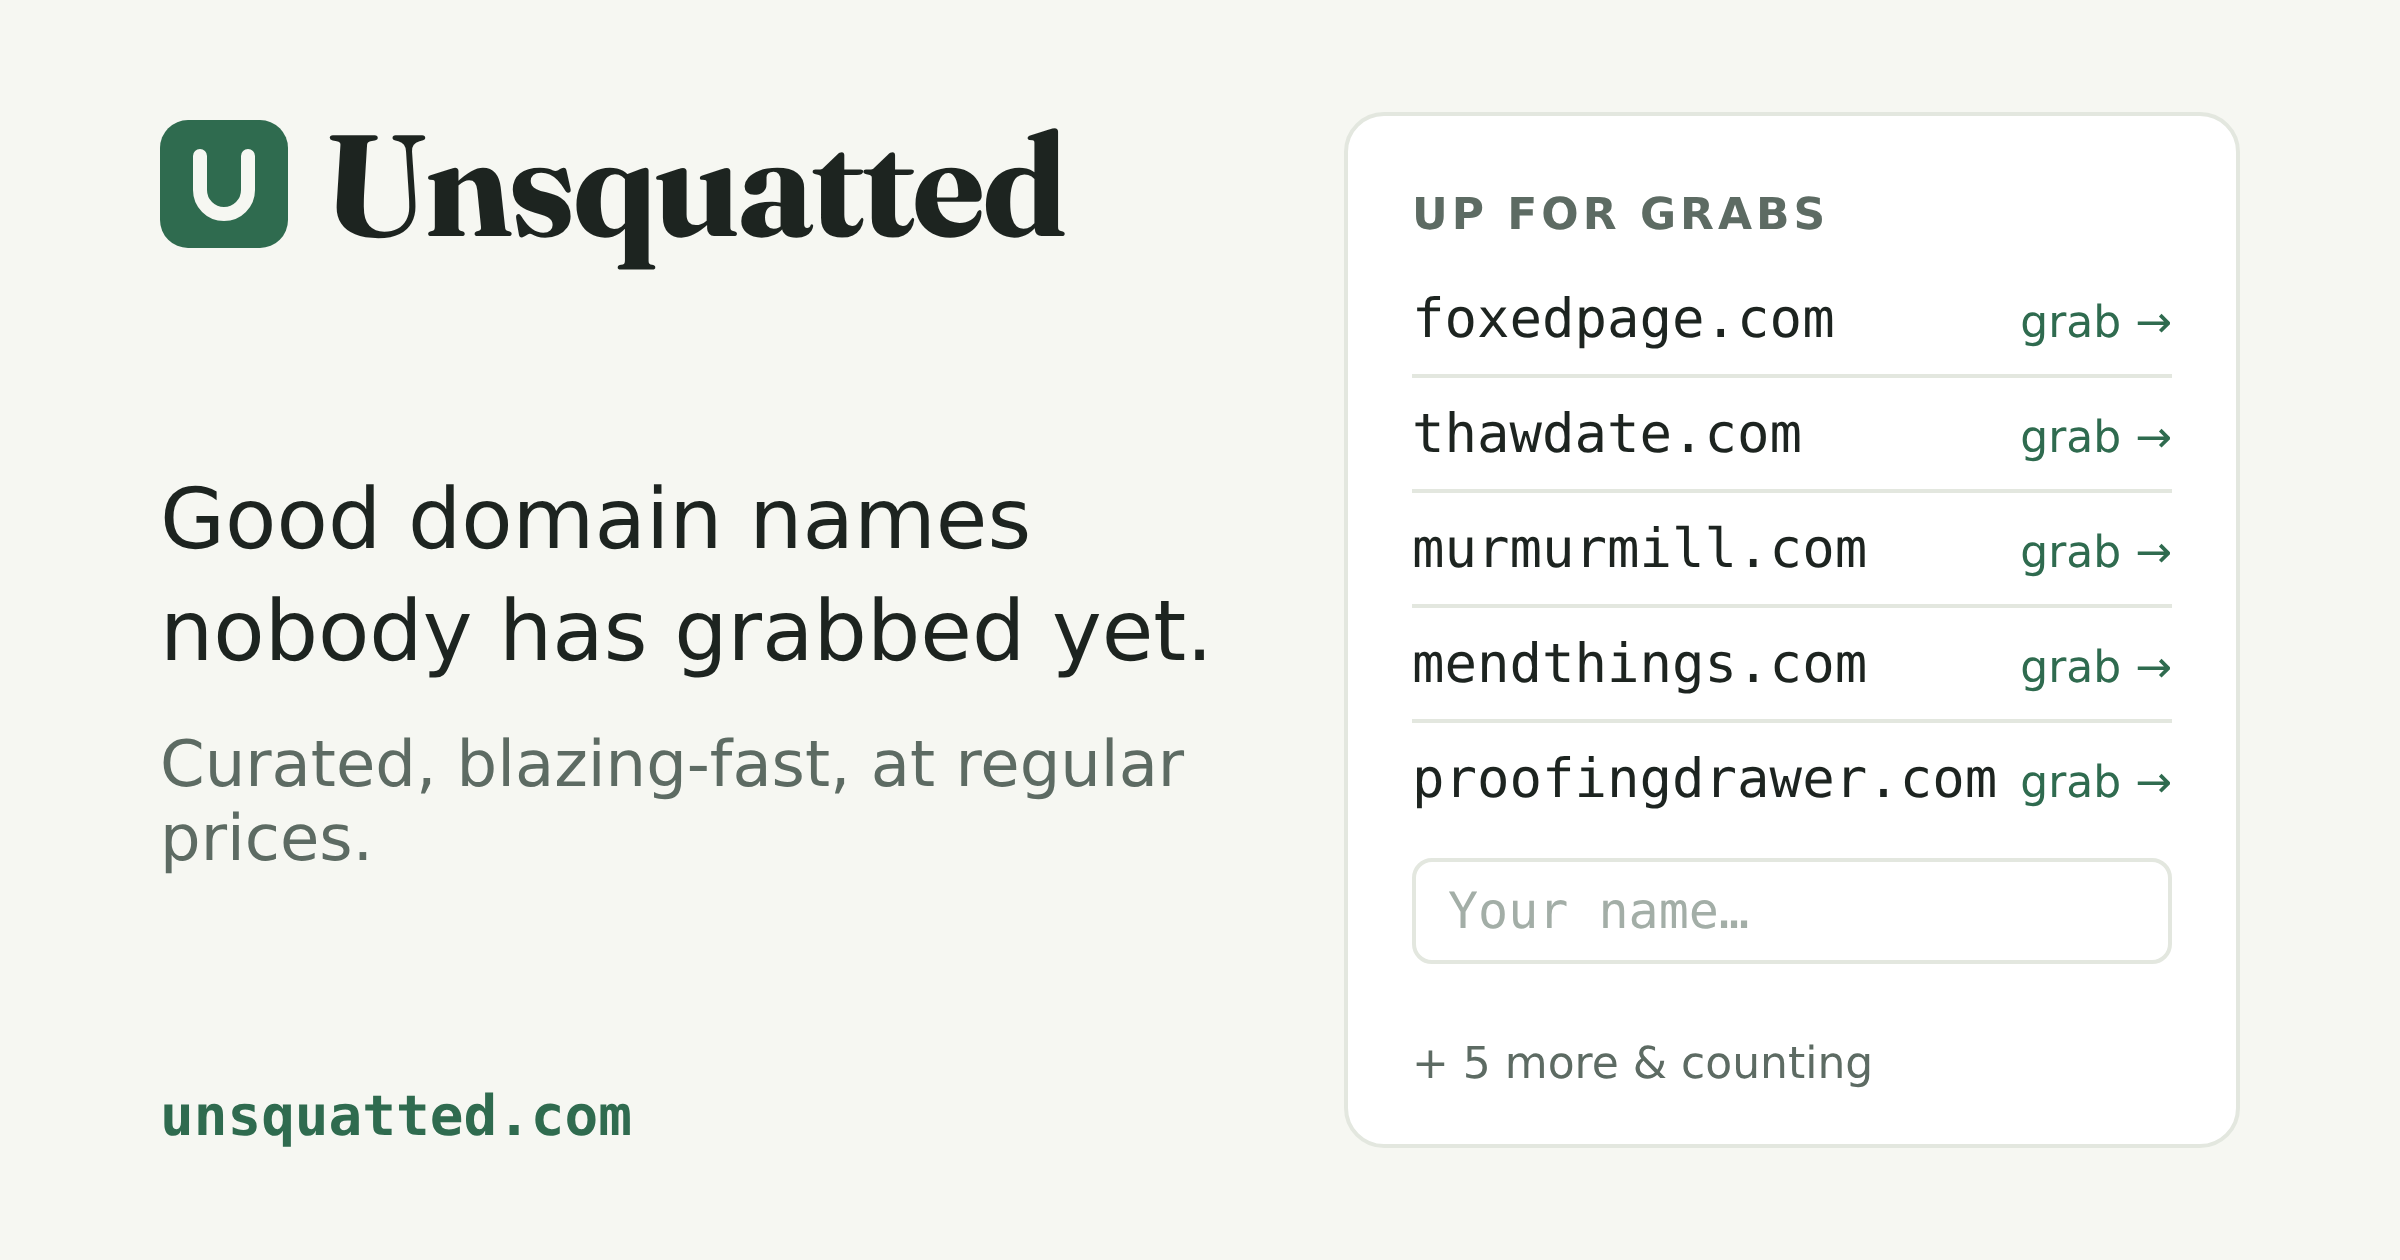
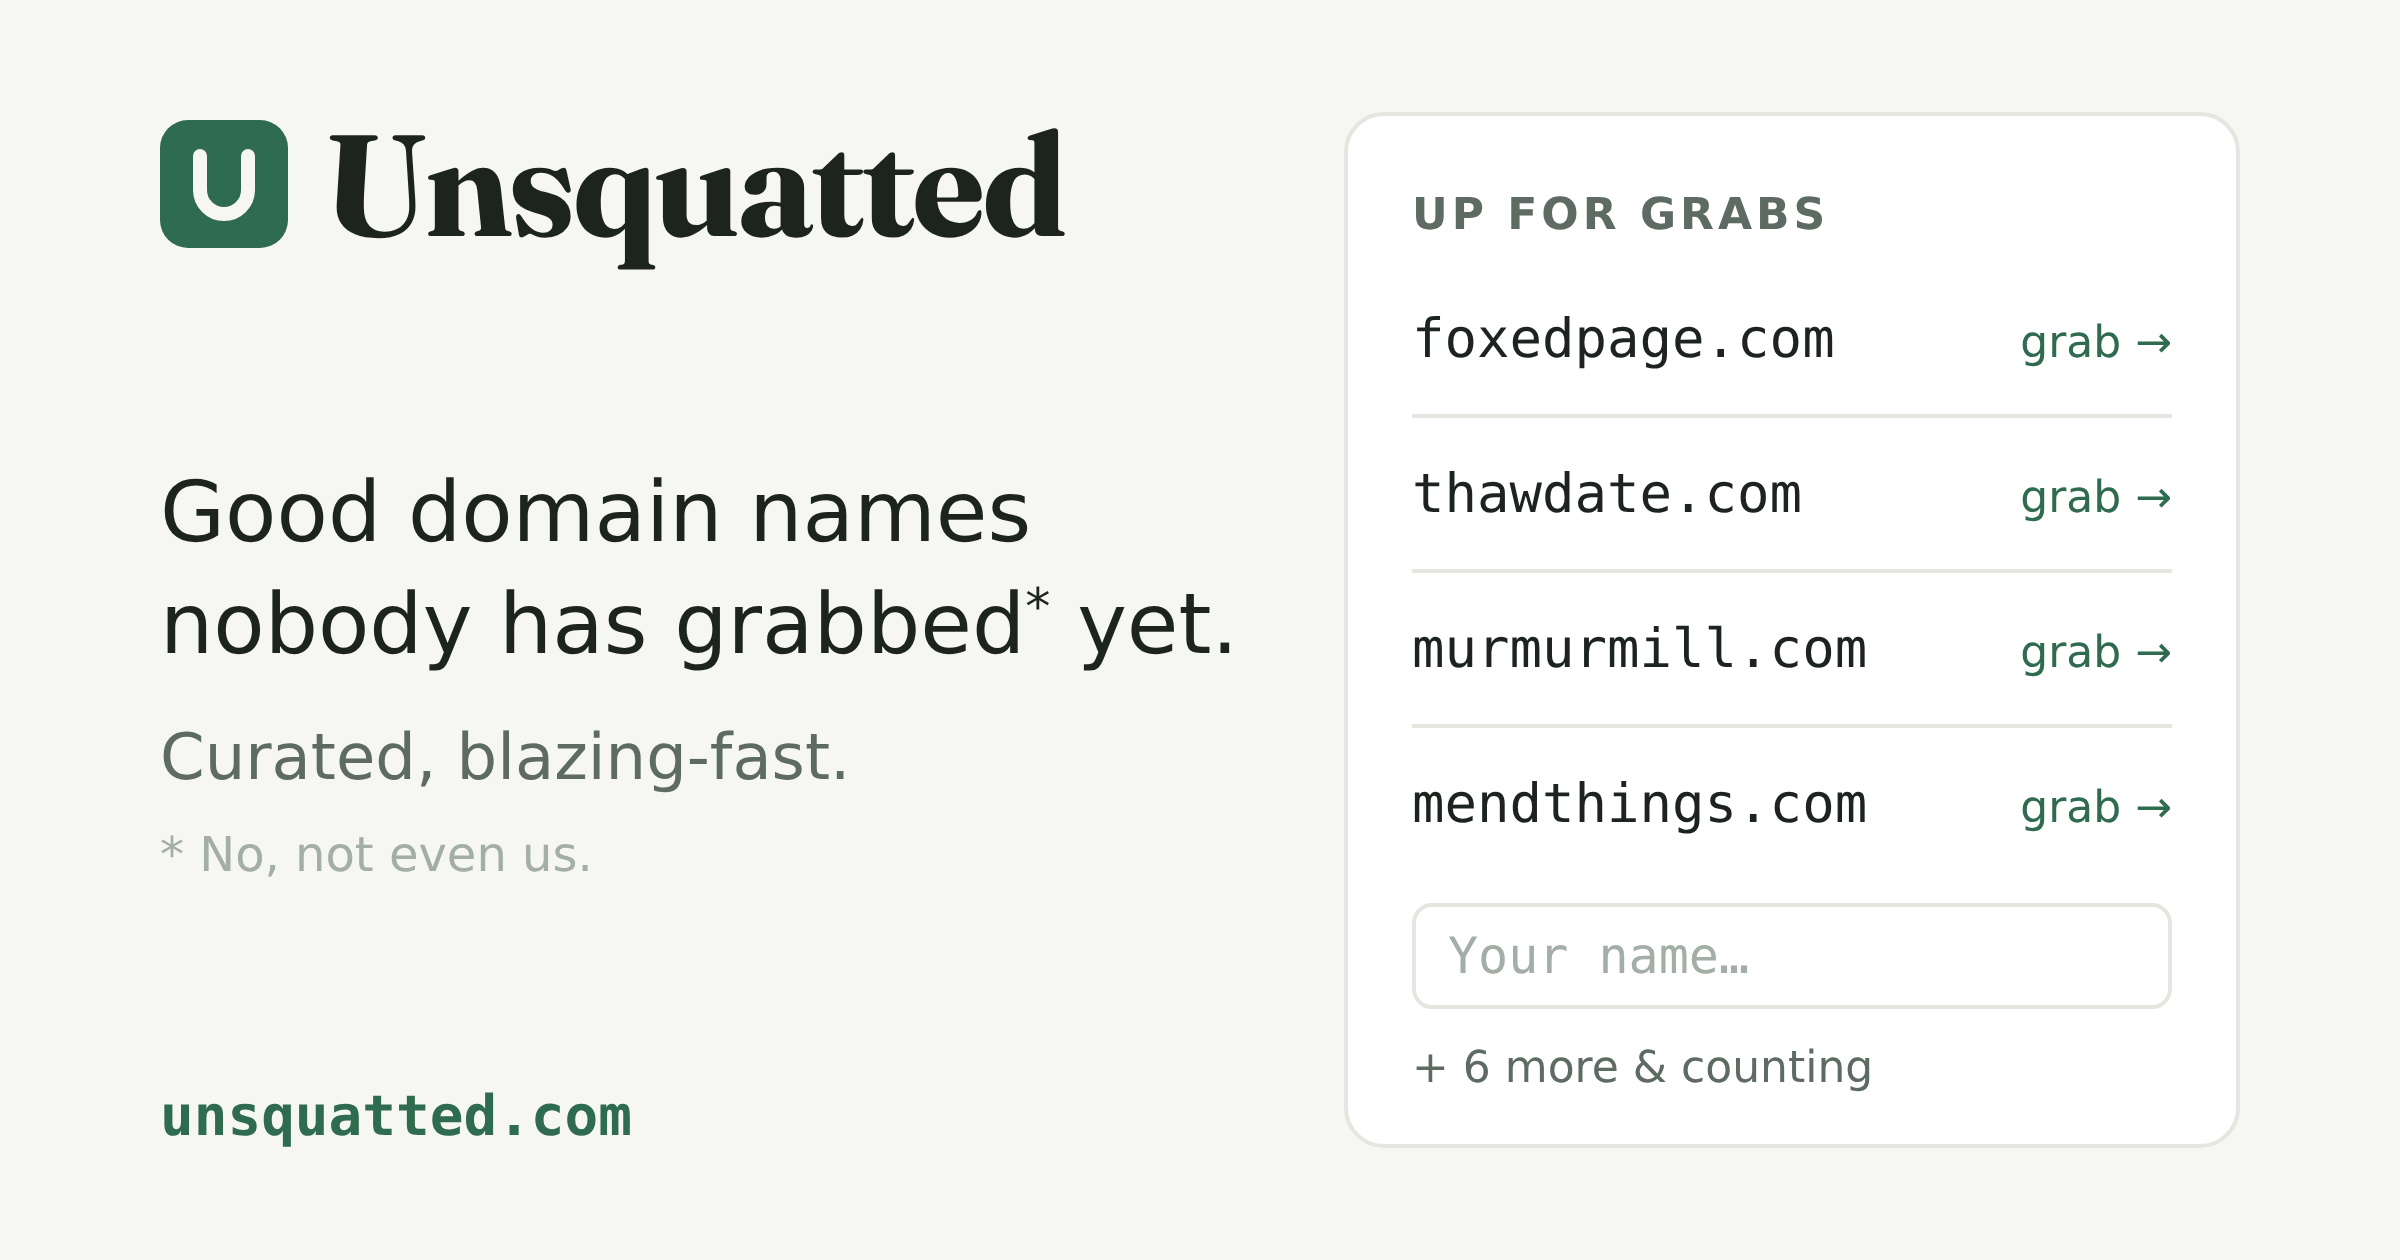
feat(unsquatted): the lede says nobody has grabbed them, not even us
"at regular prices" wrapped the card's subline onto a second line, so
it is gone: a superscript asterisk after "grabbed" points to a footnote,
"* No, not even us.", under the lede on the page and under the subline
on the card, in a fainter ink there. The card lists four names with
more room between them, and the site tagline drops the price clause.

Claude-Session: https://claude.ai/code/session_01DaohkDfJdWXC3PesAbjdfq

diff --git a/src/unsquatted/scripts/lib/unsquatted-card.ts b/src/unsquatted/scripts/lib/unsquatted-card.ts
@@ -33,11 +33,12 @@ const fontPath = fileURLToPath(
 );
 
 /** How many listed names the panel has room for above the name field. */
-const SHOWN = 5;
+const SHOWN = 4;
 
 const PAPER = '#f6f7f2';
 const INK = '#1d2420';
 const INK_DIM = '#5d6b63';
+const INK_FAINT = '#a3aea7';
 const GREEN = '#2f6b4f';
 const RULE = '#e3e7df';
 
@@ -52,8 +53,7 @@ const MARK = `<svg viewBox="0 0 64 64" width="64" height="64" aria-hidden="true"
 
 /** The lede, its first sentence the headline and the rest under it. */
 function lede(): readonly [string, string] {
-  const [head = '', ...rest] =
-    `${COPY.lede} ${COPY.blazing}${COPY.ledeEnd}.`.split('. ');
+  const [head = '', ...rest] = `${COPY.lede} ${COPY.blazing}.`.split('. ');
 
   return [`${head}.`, rest.join('. ')];
 }
@@ -104,7 +104,9 @@ export function unsquattedCard(): StagedPage {
         line-height: 1;
       }
       .headline { margin: auto 0 0; font-size: 42px; line-height: 1.33; }
-      .subline { margin: 20px 0 auto; font-size: 32px; color: ${INK_DIM}; }
+      .subline { margin: 20px 0 0; font-size: 32px; color: ${INK_DIM}; }
+      .headline sup { font-size: 0.6em; line-height: 0; }
+      .note { margin: 16px 0 auto; font-size: 24px; color: ${INK_FAINT}; }
       .url { font-family: ${MONO}; font-size: 28px; font-weight: 700; color: ${GREEN}; }
       aside {
         flex: none;
@@ -129,7 +131,7 @@ export function unsquattedCard(): StagedPage {
         display: flex;
         justify-content: space-between;
         align-items: baseline;
-        padding: 12px 0;
+        padding: 22px 0;
         border-bottom: 2px solid ${RULE};
       }
       li:last-child { border-bottom: none; }
@@ -142,7 +144,7 @@ export function unsquattedCard(): StagedPage {
         border-radius: 10px;
         font-family: ${MONO};
         font-size: 25px;
-        color: #a3aea7;
+        color: ${INK_FAINT};
       }
       .more { margin: auto 0 0; padding-top: 16px; font-size: 22px; color: ${INK_DIM}; }
     </style>
@@ -153,8 +155,9 @@ export function unsquattedCard(): StagedPage {
       ${MARK}
         <span class="wordmark">Unsquatted</span>
       </header>
-      <p class="headline">${escapeHtml(headline)}</p>
+      <p class="headline">${escapeHtml(headline).replace('*', '<sup>*</sup>')}</p>
       <p class="subline">${escapeHtml(subline)}</p>
+      <p class="note">${escapeHtml(COPY.ledeNote)}</p>
       <span class="url">unsquatted.com</span>
     </main>
     <aside>

diff --git a/src/unsquatted/pages/home/ui/unsquatted-home-page.tsx b/src/unsquatted/pages/home/ui/unsquatted-home-page.tsx
@@ -18,6 +18,9 @@ const SHOUT_OUT = `https://x.com/intent/post?${new URLSearchParams({
   text: COPY.shoutOutPost.replace('{url}', SITE_CONFIG.url),
 })}`;
 
+/** The lede's `*` is the mark `ledeNote` answers. */
+const [beforeMark, afterMark] = COPY.lede.split('*');
+
 /** The site is one page: the checker, then the list the routine grows. */
 export async function UnsquattedHomePage() {
   const prices = await fetchPrices();
@@ -27,15 +30,17 @@ export async function UnsquattedHomePage() {
       <Stack component="main" gap={48}>
         <header>
           <h1 className={classes['masthead']}>{SITE_CONFIG.name}</h1>
-          <p className={classes['lede']}>
-            {COPY.lede}{' '}
-            <NotedSpan words={COPY.blazing}>{COPY.blazingWhy}</NotedSpan>
-            {COPY.ledeEnd}.
-          </p>
-          <p className={classes['lede']}>
+          <div className={classes['lede']}>
+            {beforeMark}
+            <sup>*</sup>
+            {afterMark}{' '}
+            <NotedSpan words={COPY.blazing}>{COPY.blazingWhy}</NotedSpan>.
+          </div>
+          <div className={classes['lede']}>
             {COPY.pledge} {COPY.coffeePrompt}{' '}
             <NotedSpan words={COPY.coffeeLink}>{COPY.coffeeSoon}</NotedSpan>.
-          </p>
+          </div>
+          <p className={classes['ledeNote']}>{COPY.ledeNote}</p>
         </header>
 
         <CheckerProvider>

diff --git a/src/kernel/shared/config/site-config.ts b/src/kernel/shared/config/site-config.ts
@@ -248,8 +248,7 @@ const SITE_CONFIGS: Record<SiteId, SiteConfig> = {
     url: 'https://unsquatted.com',
     downloadPrefix: 'unsquatted',
     name: 'Unsquatted',
-    tagline:
-      'Good domain names nobody has grabbed yet. Curated, blazing-fast, at regular prices.',
+    tagline: 'Good domain names nobody has grabbed yet. Curated, blazing-fast.',
     // The card is generated from the listed names by `pnpm content:og
     // unsquatted`, so no vector pairs it.
     avatar: UNSQUATTED_CARD,

diff --git a/src/unsquatted/pages/home/ui/unsquatted-home.module.scss b/src/unsquatted/pages/home/ui/unsquatted-home.module.scss
@@ -27,6 +27,14 @@
   margin-top: 8px;
 }
 
+// The footnote to the lede's asterisk.
+.ledeNote {
+  margin: 8px 0 0;
+  color: var(--unsquatted-muted);
+  font-size: 0.8rem;
+  opacity: 0.75;
+}
+
 // A button that reads as the text around it.
 %text-button {
   padding: 0;
